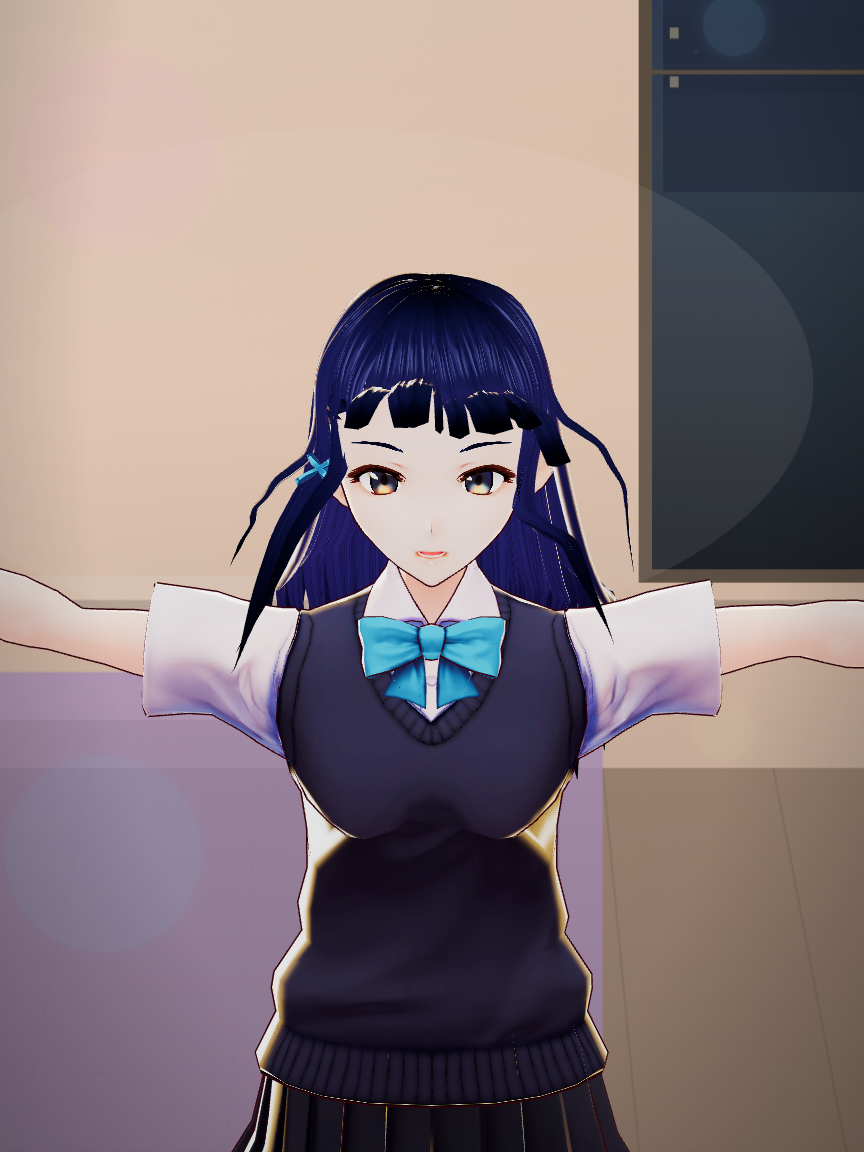
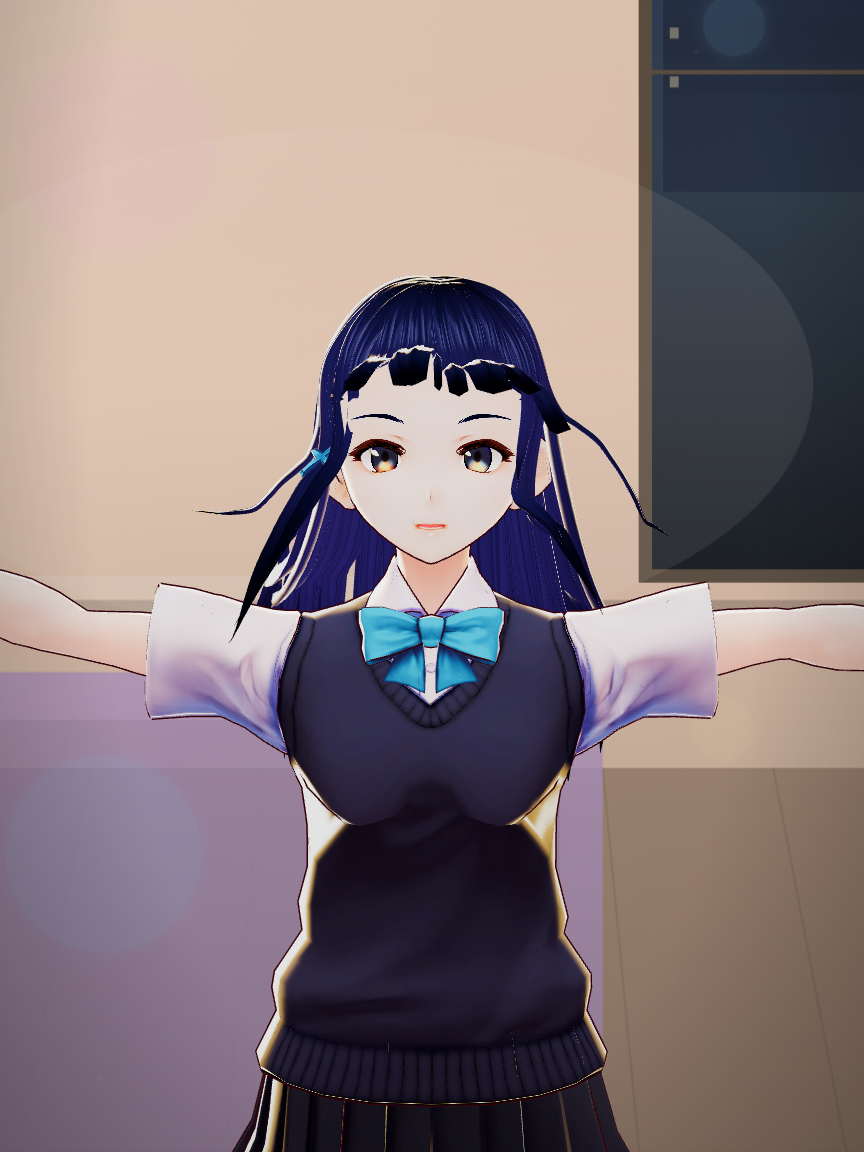
feat(companion): ship Sendagaya Shino CC0 VTuber at roster #24 (v579)
Install companion-shino.vrm from CC0 zip, vendor license README, model
revision cache bust, VRoid CC0 badge, refresh card/hero previews.

diff --git a/prototypes/amoji-companion.html b/prototypes/amoji-companion.html
@@ -8,9 +8,9 @@
     <meta http-equiv="Expires" content="0" />
     <title>Amoji · Companion</title>
     <script>
-      window.__amojiBuild = "2026-09-24-v578-mon-roster-calm-stand";
+      window.__amojiBuild = "2026-09-24-v579-mon-shino-vtuber-ship";
     </script>
-    <script src="/amoji-engine/engine/companion/companionEarlyFreshBoot.js?v=2026-09-24-v578-mon-roster-calm-stand"></script>
+    <script src="/amoji-engine/engine/companion/companionEarlyFreshBoot.js?v=2026-09-24-v579-mon-shino-vtuber-ship"></script>
     <link
       rel="prefetch"
       href="/prototypes/assets/companion-char-nova.png"
@@ -694,28 +694,28 @@
       media="print"
       onload="this.media='all'"
     />
-    <link rel="stylesheet" href="/prototypes/companion-grok-ani.css?v=2026-09-24-v578-mon-roster-calm-stand" />
-    <link rel="stylesheet" href="/prototypes/companion-ui-effects.css?v=2026-09-24-v578-mon-roster-calm-stand" />
-    <link rel="stylesheet" href="/prototypes/companion-mic-button.css?v=2026-09-24-v578-mon-roster-calm-stand" />
-    <link rel="stylesheet" href="/prototypes/companion-title-screen.css?v=2026-09-24-v578-mon-roster-calm-stand" />
-    <link rel="stylesheet" href="/prototypes/companion-minimal-ui.css?v=2026-09-24-v578-mon-roster-calm-stand" />
-    <link rel="stylesheet" href="/prototypes/companion-settings-ui.css?v=2026-09-24-v578-mon-roster-calm-stand" />
-    <link rel="stylesheet" href="/prototypes/companion-mobile-shell.css?v=2026-09-24-v578-mon-roster-calm-stand" />
-    <link rel="stylesheet" href="/prototypes/companion-picker-v4.css?v=2026-09-24-v578-mon-roster-calm-stand" />
-    <link rel="stylesheet" href="/prototypes/companion-picker-stacked-layout.css?v=2026-09-24-v578-mon-roster-calm-stand" />
-    <link rel="stylesheet" href="/prototypes/companion-picker-aaa-theme.css?v=2026-09-24-v578-mon-roster-calm-stand" />
-    <link rel="stylesheet" href="/prototypes/companion-jp-aaa-shell.css?v=2026-09-24-v578-mon-roster-calm-stand" />
-    <link rel="stylesheet" href="/prototypes/companion-responsive-layout.css?v=2026-09-24-v578-mon-roster-calm-stand" />
-    <link rel="stylesheet" href="/prototypes/companion-chat-stack.css?v=2026-09-24-v578-mon-roster-calm-stand" />
-    <link rel="stylesheet" href="/prototypes/companion-app-width.css?v=2026-09-24-v578-mon-roster-calm-stand" />
-    <link rel="stylesheet" href="/prototypes/companion-scroll-affordances.css?v=2026-09-24-v578-mon-roster-calm-stand" />
+    <link rel="stylesheet" href="/prototypes/companion-grok-ani.css?v=2026-09-24-v579-mon-shino-vtuber-ship" />
+    <link rel="stylesheet" href="/prototypes/companion-ui-effects.css?v=2026-09-24-v579-mon-shino-vtuber-ship" />
+    <link rel="stylesheet" href="/prototypes/companion-mic-button.css?v=2026-09-24-v579-mon-shino-vtuber-ship" />
+    <link rel="stylesheet" href="/prototypes/companion-title-screen.css?v=2026-09-24-v579-mon-shino-vtuber-ship" />
+    <link rel="stylesheet" href="/prototypes/companion-minimal-ui.css?v=2026-09-24-v579-mon-shino-vtuber-ship" />
+    <link rel="stylesheet" href="/prototypes/companion-settings-ui.css?v=2026-09-24-v579-mon-shino-vtuber-ship" />
+    <link rel="stylesheet" href="/prototypes/companion-mobile-shell.css?v=2026-09-24-v579-mon-shino-vtuber-ship" />
+    <link rel="stylesheet" href="/prototypes/companion-picker-v4.css?v=2026-09-24-v579-mon-shino-vtuber-ship" />
+    <link rel="stylesheet" href="/prototypes/companion-picker-stacked-layout.css?v=2026-09-24-v579-mon-shino-vtuber-ship" />
+    <link rel="stylesheet" href="/prototypes/companion-picker-aaa-theme.css?v=2026-09-24-v579-mon-shino-vtuber-ship" />
+    <link rel="stylesheet" href="/prototypes/companion-jp-aaa-shell.css?v=2026-09-24-v579-mon-shino-vtuber-ship" />
+    <link rel="stylesheet" href="/prototypes/companion-responsive-layout.css?v=2026-09-24-v579-mon-shino-vtuber-ship" />
+    <link rel="stylesheet" href="/prototypes/companion-chat-stack.css?v=2026-09-24-v579-mon-shino-vtuber-ship" />
+    <link rel="stylesheet" href="/prototypes/companion-app-width.css?v=2026-09-24-v579-mon-shino-vtuber-ship" />
+    <link rel="stylesheet" href="/prototypes/companion-scroll-affordances.css?v=2026-09-24-v579-mon-shino-vtuber-ship" />
     <link
       rel="stylesheet"
-      href="/prototypes/companion-scene-backgrounds.css?v=2026-09-24-v578-mon-roster-calm-stand"
+      href="/prototypes/companion-scene-backgrounds.css?v=2026-09-24-v579-mon-shino-vtuber-ship"
     />
     <link
       rel="stylesheet"
-      href="/prototypes/companion-start-picker-sheet.css?v=2026-09-24-v578-mon-roster-calm-stand"
+      href="/prototypes/companion-start-picker-sheet.css?v=2026-09-24-v579-mon-shino-vtuber-ship"
     />
     <script>
       (function () {
@@ -734,7 +734,7 @@
       })();
     </script>
     <script type="module">
-      import { bootEarlyStartPicker } from "/amoji-engine/engine/companion/companionEarlyStartPicker.js?v=2026-09-24-v578-mon-roster-calm-stand";
+      import { bootEarlyStartPicker } from "/amoji-engine/engine/companion/companionEarlyStartPicker.js?v=2026-09-24-v579-mon-shino-vtuber-ship";
       import {
         applyBootPickerUrlDefaults,
         shouldShowStartPickerOnBoot,
@@ -4627,19 +4627,19 @@
     <script type="importmap">
       {
         "imports": {
-          "three": "/amoji-engine/vendor/three.module.js?v=2026-09-24-v578-mon-roster-calm-stand",
+          "three": "/amoji-engine/vendor/three.module.js?v=2026-09-24-v579-mon-shino-vtuber-ship",
           "three/addons/": "/amoji-engine/vendor/three/addons/",
-          "@pixiv/three-vrm": "/amoji-engine/vendor/three-vrm/three-vrm.module.min.js?v=2026-09-24-v578-mon-roster-calm-stand",
-          "@pixiv/three-vrm-animation": "/amoji-engine/vendor/three-vrm-animation/three-vrm-animation.module.min.js?v=2026-09-24-v578-mon-roster-calm-stand"
+          "@pixiv/three-vrm": "/amoji-engine/vendor/three-vrm/three-vrm.module.min.js?v=2026-09-24-v579-mon-shino-vtuber-ship",
+          "@pixiv/three-vrm-animation": "/amoji-engine/vendor/three-vrm-animation/three-vrm-animation.module.min.js?v=2026-09-24-v579-mon-shino-vtuber-ship"
         }
       }
     </script>
     <link
       rel="modulepreload"
-      href="/amoji-engine/engine/companion/companionPreload.js?v=2026-09-24-v578-mon-roster-calm-stand"
+      href="/amoji-engine/engine/companion/companionPreload.js?v=2026-09-24-v579-mon-shino-vtuber-ship"
     />
-    <script type="module" src="/amoji-engine/engine/companion/companionFreshBoot.js?v=2026-09-24-v578-mon-roster-calm-stand"></script>
-    <script type="module" src="/amoji-engine/engine/companion/companionPreload.js?v=2026-09-24-v578-mon-roster-calm-stand"></script>
+    <script type="module" src="/amoji-engine/engine/companion/companionFreshBoot.js?v=2026-09-24-v579-mon-shino-vtuber-ship"></script>
+    <script type="module" src="/amoji-engine/engine/companion/companionPreload.js?v=2026-09-24-v579-mon-shino-vtuber-ship"></script>
     <script>
       (function () {
         window.__amojiModuleBooted = false;

diff --git a/amoji-engine/tests/companionCharacterCatalog.test.js b/amoji-engine/tests/companionCharacterCatalog.test.js
@@ -217,7 +217,7 @@ describe("companionCharacterCatalog v363 VTuber roster", () => {
     expect(aaaRosterBadge("yuki", true)).toBe("AAA Pro");
     expect(aaaRosterBadge("sky", true)).toBe("AAA");
     expect(aaaRosterBadge("dex", true)).toBe("AAA");
-    expect(aaaRosterBadge("shino", true)).toBe("VRoid Pro");
+    expect(aaaRosterBadge("shino", true)).toBe("VRoid CC0");
   });
 
   it("builds character-specific prompts", () => {

diff --git a/amoji-engine/engine/companion/companionCharacterCatalog.js b/amoji-engine/engine/companion/companionCharacterCatalog.js
@@ -175,6 +175,9 @@ export function isAaaRosterCharacter(id) {
 export function aaaRosterBadge(id, en = false) {
   const key = String(id || "").toLowerCase();
   if (!isAaaRosterCharacter(key)) return null;
+  if (key === "shino") {
+    return en ? "VRoid CC0" : "VRoid CC0";
+  }
   const n = characterNumber(key);
   if (n >= 24) {
     return en ? "VRoid Pro" : "VRoid Pro";

diff --git a/amoji-engine/docs/3D_MODEL_INVENTORY.md b/amoji-engine/docs/3D_MODEL_INVENTORY.md
@@ -31,7 +31,7 @@ Settings **Brain → LLM model** is the **text AI**, not these 3D files.
 | 10 | mio | 100Avatars CC0 |
 | 11 | amoji | Pixiv VRM 1.0 sample (project mascot) |
 | 12–23 | orion…cleo | Curated CC0 / Arweave lineup (see `companionRosterReplacementData.mjs`) |
-| 24 | sienna | VRoid AvatarSample A · Pro |
+| 24 | shino | Sendagaya Shino · VRoid official CC0 sample (OpenGameArt zip) |
 | 25 | luna | VRoid fem sample · Pro |
 | 26–31 | juno…cyrus | Unique CC0 / Arweave Pro picks (no shared AvatarSample C clones) |
 
